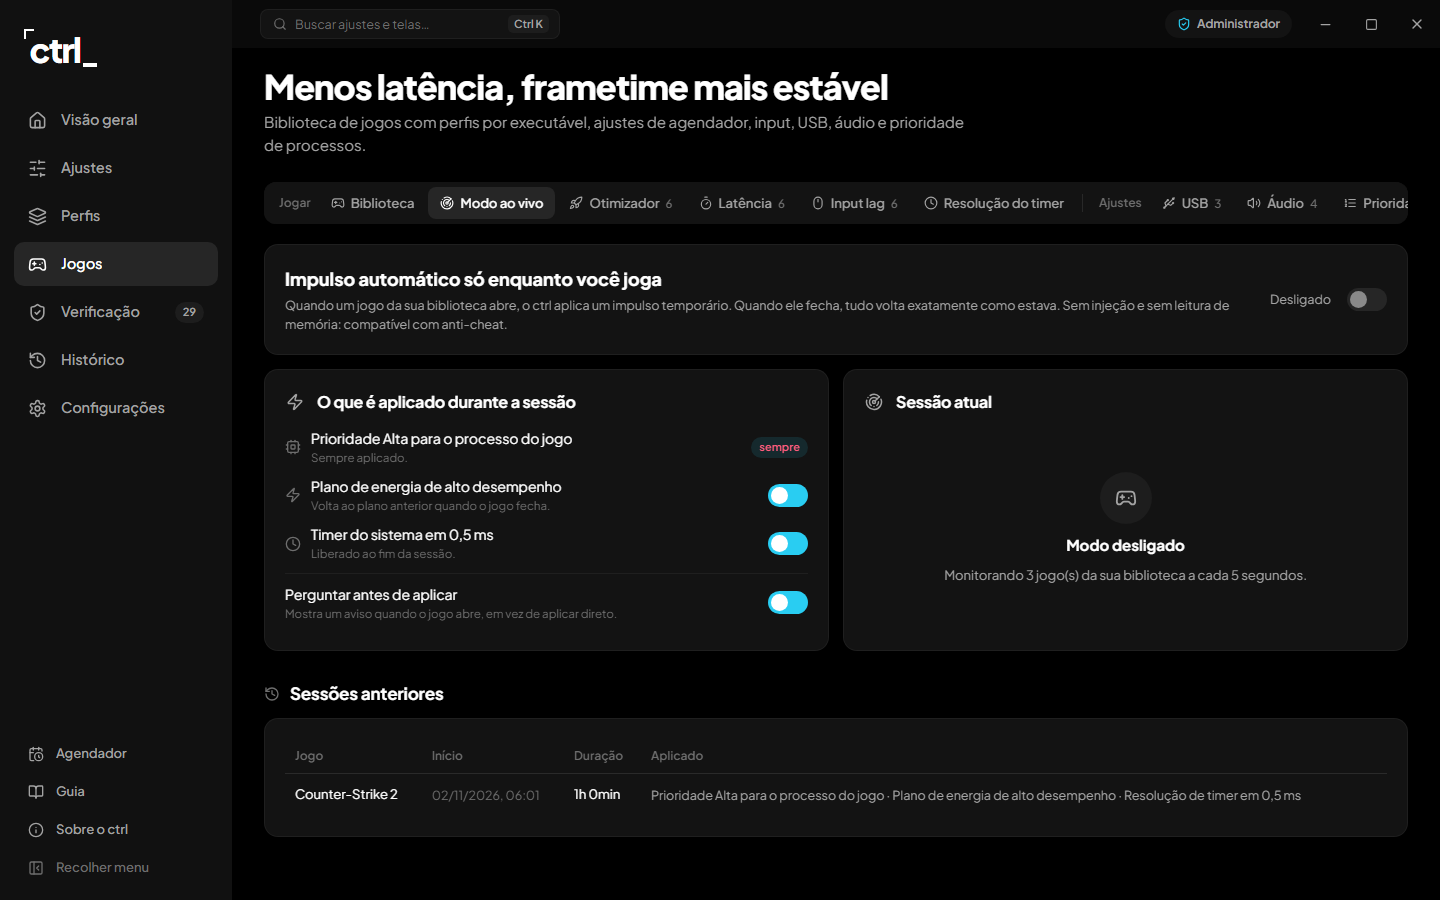
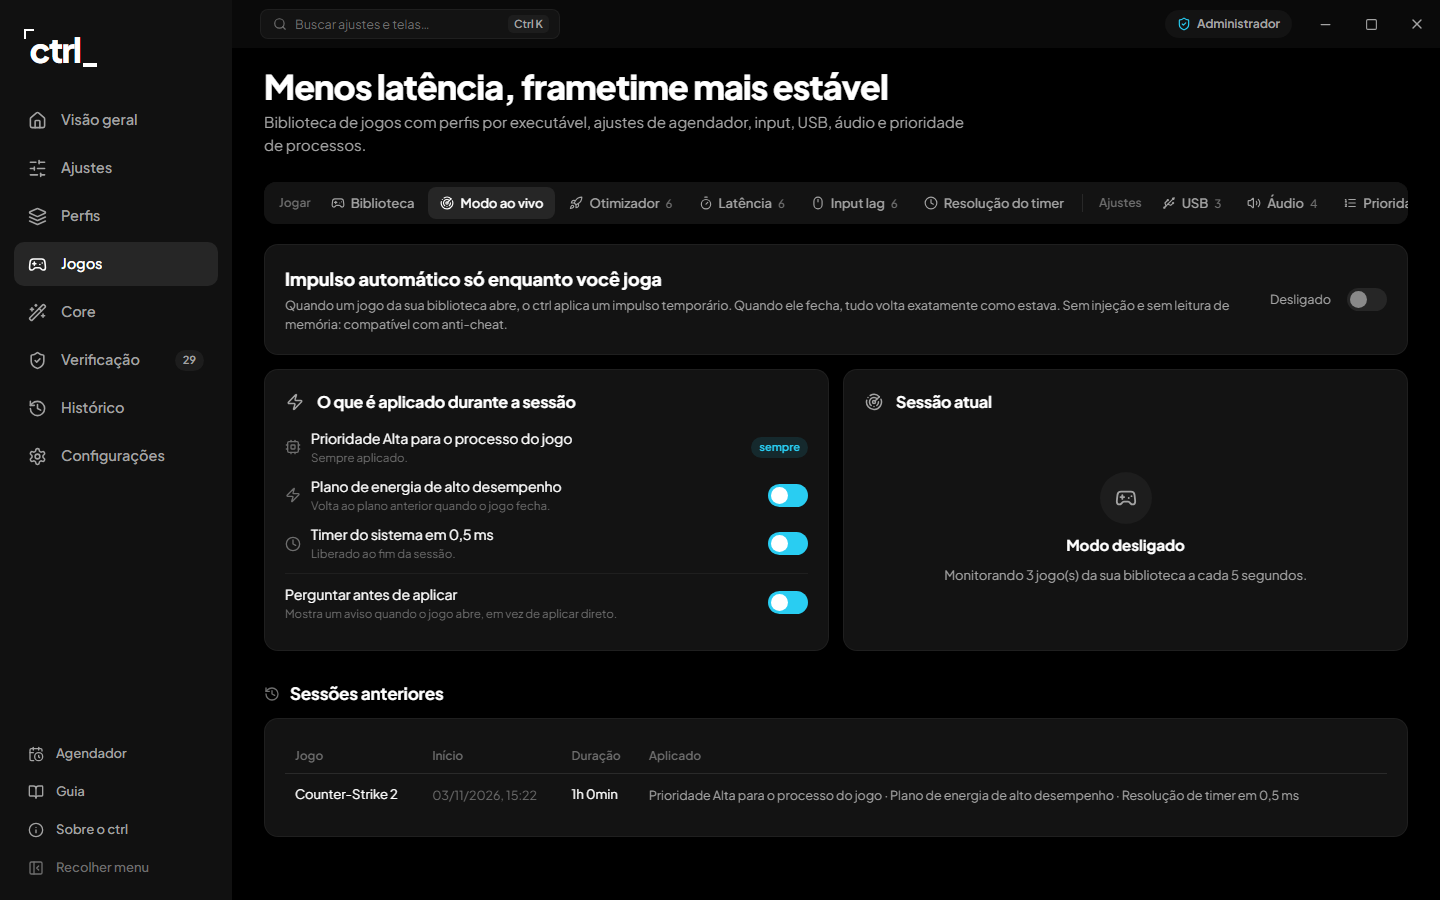
ctrl 1.2.0
Version bump, changelog dated, Core screenshot in the README (demo mode shows
the Core on with a CS2 setup), all screenshots retaken with the cyan "Ativo"
and badges, and the screenshot script now fails instead of keeping a stale
image when the dev server is down.

diff --git a/src/lib/mock.js b/src/lib/mock.js
@@ -18,10 +18,16 @@ const BATUTA_GAMES = [
   { id: 'apex', name: 'Apex Legends', exe: 'r5apex_dx12', cores: 'all', ram: 'medium' },
   { id: 'tarkov', name: 'Escape from Tarkov', exe: 'EscapeFromTarkov', cores: 'all', ram: 'heavy' },
 ];
+// ?demo (README screenshots) shows the Core on, set up the way a CS2 player would have it.
+const BATUTA_DEMO = typeof location !== 'undefined' && location.search.includes('demo');
 const batutaMock = {
   config: {
-    enabled: false,
-    rules: [],
+    enabled: BATUTA_DEMO,
+    rules: BATUTA_DEMO ? [
+      { exe: 'cs2.exe', name: 'Counter-Strike 2', game: true, priority: 'high', cores: 'p', io: 'normal', gpu: 'high', efficiency: 'never' },
+      { exe: 'Discord.exe', name: 'Discord', game: false, priority: 'normal', cores: 'e', io: 'normal', gpu: 'low', efficiency: 'default' },
+      { exe: 'Spotify.exe', name: 'Spotify', game: false, priority: 'normal', cores: 'e', io: 'normal', gpu: 'low', efficiency: 'default' },
+    ] : [],
     containment: { enabled: true, total: 70, proc: 10, overMs: 2700, restore: 2, minMs: 2100, exclusions: [] },
     memory: { enabled: false, listMB: 1024, freeMB: 4096, onlyGaming: true, exclusions: [] },
     boost: { enabled: false, activePlan: null, idlePlan: '381b4222-f694-41f0-9685-ff5bb260df2e', idleMin: 5 },

diff --git a/README.md b/README.md
@@ -51,6 +51,7 @@ sempre conseguem desfazer. O ctrl foi feito ao contrário:
   <img src="docs/screenshots/profiles.png" width="420" alt="Perfis">
   <img src="docs/screenshots/verify.png" width="420" alt="Verificação">
   <img src="docs/screenshots/games.png" width="420" alt="Modo ao vivo">
+  <img src="docs/screenshots/core.png" width="420" alt="Core">
 </p>
 </details>
 

diff --git a/README.en.md b/README.en.md
@@ -53,6 +53,7 @@ undo it. ctrl works the other way around:
   <img src="docs/screenshots/profiles.png" width="420" alt="Profiles">
   <img src="docs/screenshots/verify.png" width="420" alt="Verification">
   <img src="docs/screenshots/games.png" width="420" alt="Live mode">
+  <img src="docs/screenshots/core.png" width="420" alt="Core">
 </p>
 </details>
 

diff --git a/CHANGELOG.md b/CHANGELOG.md
@@ -1,6 +1,6 @@
 # Changelog
 
-## Não lançado
+## 1.2.0 — 03/11/2026
 
 - **Core**, nova página para reger os processos:
   - **Regras** por programa: prioridade, só P-cores ou só E-cores, prioridade de E/S e de GPU e modo de eficiência, aplicadas sempre que o programa abre.
